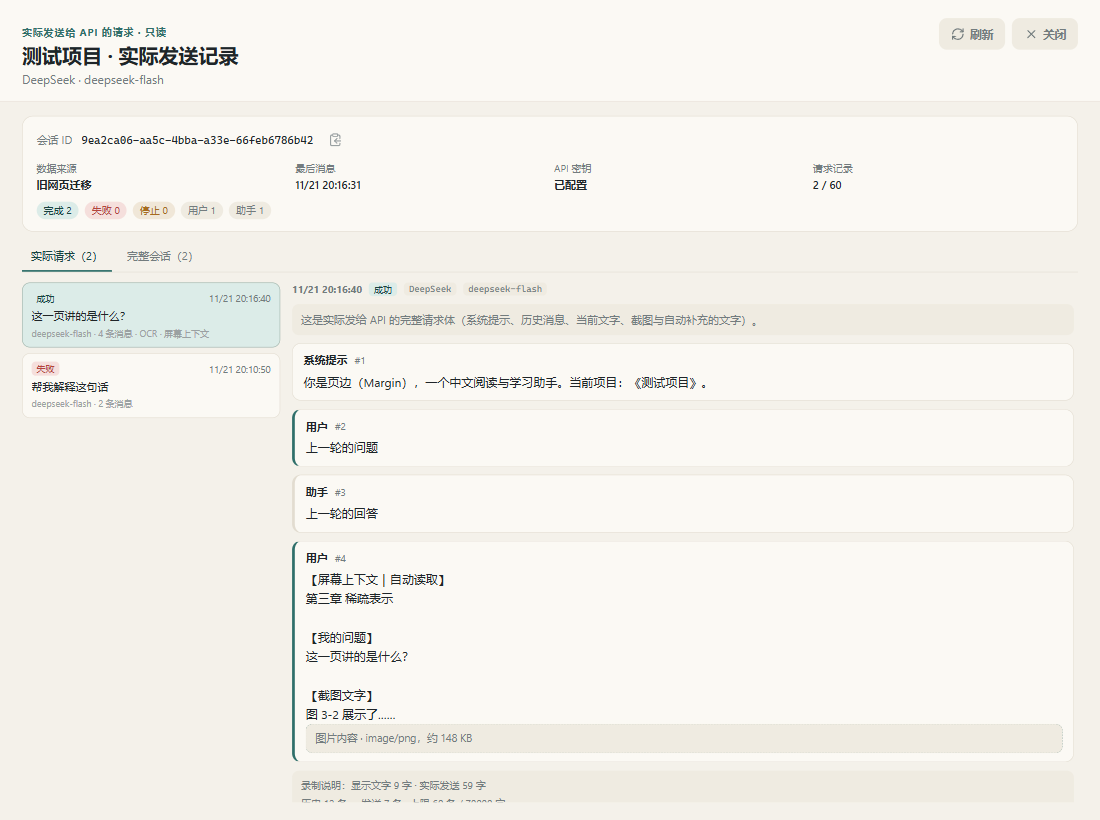
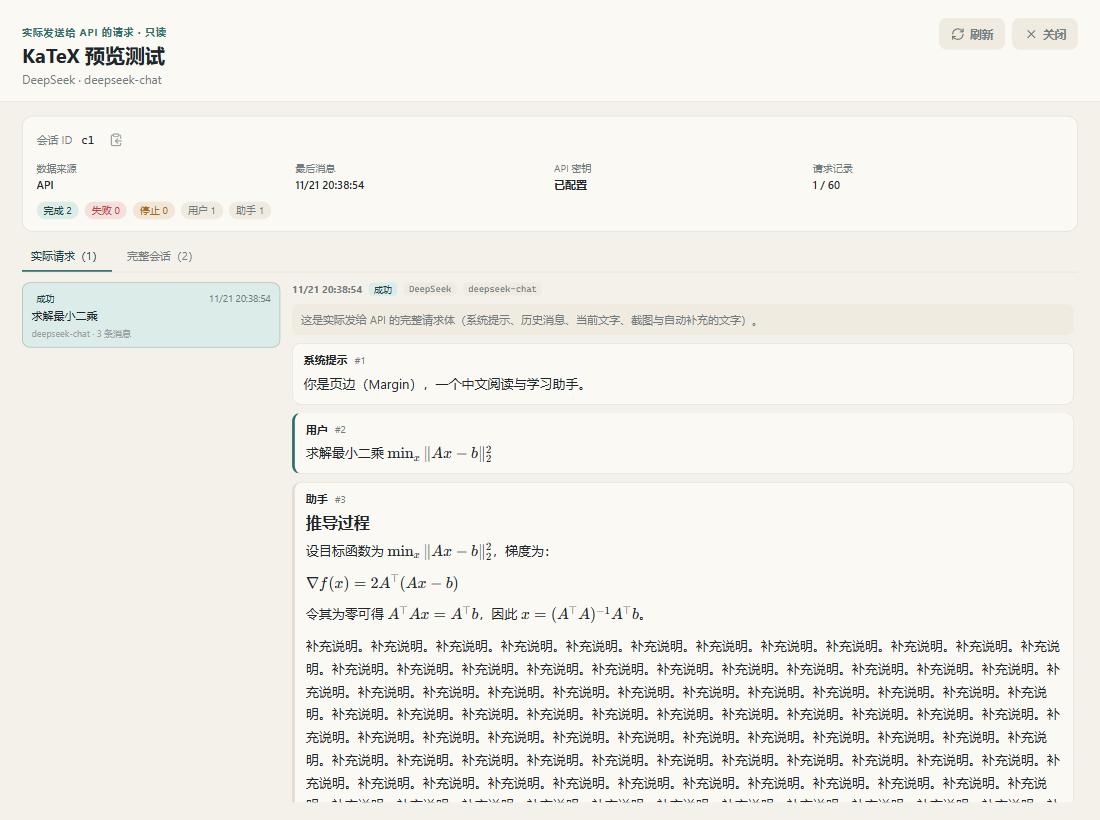
Margin v0.2.5: render inspector with KaTeX, skip OCR when images are supported, scroll to latest

diff --git a/src/renderer/src/InspectorPage.tsx b/src/renderer/src/InspectorPage.tsx
@@ -6,6 +6,7 @@ import type {
   ConversationInspection,
   RequestPart
 } from '../../shared/types'
+import { MarkdownPlain } from './components/Markdown'
 
 type Tab = 'requests' | 'transcript'
 
@@ -43,7 +44,7 @@ function outcomeLabel(outcome: ChatRequestLog['outcome']): string {
 }
 
 function RequestPartView({ part, onImage }: { part: RequestPart; onImage: (url: string) => void }): React.JSX.Element {
-  if (part.type === 'text') return <pre className="inspector-text">{part.text}</pre>
+  if (part.type === 'text') return <MarkdownPlain content={part.text} />
   return (
     <div className="inspector-image">
       <span className="inspector-image-label">图片内容 · {part.description}</span>
@@ -65,6 +66,7 @@ export function InspectorPage({ projectId }: { projectId: string }): React.JSX.E
   const [selectedId, setSelectedId] = useState<string | null>(null)
   const [preview, setPreview] = useState<string | null>(null)
   const detailRef = useRef<HTMLDivElement>(null)
+  const transcriptRef = useRef<HTMLDivElement>(null)
 
   async function load(): Promise<void> {
     setError('')
@@ -110,13 +112,25 @@ export function InspectorPage({ projectId }: { projectId: string }): React.JSX.E
   }, [projectId])
 
   useEffect(() => {
-    detailRef.current?.scrollTo({ top: 0 })
+    const panel = detailRef.current
+    if (!panel) return
+    const frame = requestAnimationFrame(() => {
+      panel.scrollTop = panel.scrollHeight
+    })
+    return () => cancelAnimationFrame(frame)
   }, [selectedId])
 
-  const selected = useMemo(
-    () => data?.logs.find((log) => log.requestId === selectedId) ?? null,
-    [data, selectedId]
-  )
+  useEffect(() => {
+    if (tab !== 'transcript') return
+    const panel = transcriptRef.current
+    if (!panel) return
+    const frame = requestAnimationFrame(() => {
+      panel.scrollTop = panel.scrollHeight
+    })
+    return () => cancelAnimationFrame(frame)
+  }, [tab, data])
+
+  const selected = useMemo(() => data?.logs.find((log) => log.requestId === selectedId) ?? null, [data, selectedId])
 
   const latestTime = useMemo(() => {
     const last = data?.messages[data.messages.length - 1]
@@ -281,7 +295,7 @@ export function InspectorPage({ projectId }: { projectId: string }): React.JSX.E
                             <span>#{index + 1}</span>
                           </div>
                           {message.text !== undefined ? (
-                            <pre className="inspector-text">{message.text}</pre>
+                            <MarkdownPlain content={message.text} />
                           ) : (
                             (message.parts ?? []).map((part, partIndex) => (
                               <RequestPartView
@@ -330,7 +344,7 @@ export function InspectorPage({ projectId }: { projectId: string }): React.JSX.E
                 <div className="inspector-note">
                   本地数据库中的完整会话记录（含失败 / 停止）。请求实际发送内容请查看“实际请求”。
                 </div>
-                <div className="inspector-transcript">
+                <div className="inspector-transcript" ref={transcriptRef}>
                   {data.messages.length === 0 ? (
                     <div className="inspector-empty">这个项目还没有消息。</div>
                   ) : (
@@ -352,7 +366,11 @@ export function InspectorPage({ projectId }: { projectId: string }): React.JSX.E
                             </span>
                           )}
                         </div>
-                        <pre className="inspector-text">{message.content || '（空消息）'}</pre>
+                        {message.content ? (
+                          <MarkdownPlain content={message.content} />
+                        ) : (
+                          <pre className="inspector-text">（空消息）</pre>
+                        )}
                       </article>
                     ))
                   )}

diff --git a/src/main/index.ts b/src/main/index.ts
@@ -435,17 +435,18 @@ function registerIpc(): void {
         if (!imageForRequest && db.getSettings().autoScreenContext) {
           const screen = await capture.captureForContext()
           imageForRequest = screen.imageDataUrl ?? ''
-          const screenText = screen.text.trim()
-          if (screenText) {
-            baseText = `【屏幕上下文｜自动读取】\n${screenText}\n\n【我的问题】\n${text}`
+          if (!provider.supportsVision && screen.text.trim()) {
+            // Text-only model: screen text is all we can send.
+            baseText = `【屏幕上下文｜自动读取】\n${screen.text.trim()}\n\n【我的问题】\n${text}`
           } else if (screen.error) {
             debug(`auto screen context failed: ${screen.error}`)
           }
         }
-        let ocrText = ''
-        if (imageForRequest && !provider.supportsVision) {
-          ocrText = await capture.ocrDataUrl(imageForRequest)
-        }
+        // Only run OCR when the model cannot take the picture itself.
+        const ocrText =
+          imageForRequest && !provider.supportsVision
+            ? await capture.ocrDataUrl(imageForRequest)
+            : ''
         const requestId = newRequestId()
         const { built, log } = buildRequest(
           input.projectId,
@@ -456,7 +457,7 @@ function registerIpc(): void {
           baseText,
           displayText,
           imageForRequest,
-          { applied: baseText !== text, image: imageForRequest },
+          { applied: provider.supportsVision && baseText !== text, image: imageForRequest },
           ocrText,
           { id: provider.id, name: provider.name, supportsVision: provider.supportsVision },
           model

diff --git a/src/renderer/src/components/Markdown.tsx b/src/renderer/src/components/Markdown.tsx
@@ -110,7 +110,13 @@ function CodeBlock({ children }: { children?: ReactNode }): React.JSX.Element {
   )
 }
 
-function MarkdownBase({ content }: { content: string }): React.JSX.Element {
+function MarkdownBase({
+  content,
+  withCodeToolbar = true
+}: {
+  content: string
+  withCodeToolbar?: boolean
+}): React.JSX.Element {
   const rootRef = useRef<HTMLDivElement>(null)
 
   useEffect(() => {
@@ -143,7 +149,8 @@ function MarkdownBase({ content }: { content: string }): React.JSX.Element {
           [rehypeKatex, { throwOnError: false, strict: false, errorColor: 'currentColor' }]
         ]}
         components={{
-          pre: ({ children }) => <CodeBlock>{children}</CodeBlock>,
+          pre: ({ children }) =>
+            withCodeToolbar ? <CodeBlock>{children}</CodeBlock> : <pre>{children}</pre>,
           table: ({ children }) => (
             <div className="table-wrap">
               <table>{children}</table>
@@ -163,3 +170,12 @@ function MarkdownBase({ content }: { content: string }): React.JSX.Element {
 }
 
 export const Markdown = memo(MarkdownBase)
+
+/** Read-only rendering for the request inspector: no code toolbar, KaTeX enabled. */
+export const MarkdownPlain = memo(function MarkdownPlain({
+  content
+}: {
+  content: string
+}): React.JSX.Element {
+  return <MarkdownBase content={content} withCodeToolbar={false} />
+})

diff --git a/src/main/requestLog.ts b/src/main/requestLog.ts
@@ -175,6 +175,7 @@ export function buildRequest(
   let imageOmitted = false
   let ocrApplied = false
   if (image && !provider.supportsVision) {
+    // Text-only model: the picture itself cannot travel, so fall back to OCR text.
     if (ocrText.trim()) {
       apiText = `${apiText}\n\n【截图文字】\n${ocrText.trim()}`
       ocrApplied = true
@@ -182,6 +183,10 @@ export function buildRequest(
       imageOmitted = true
     }
     image = ''
+  } else if (image) {
+    // Vision model: send the real image only. Do not append OCR text as well,
+    // otherwise the model receives the same content twice.
+    ocrApplied = false
   }
   const messages = buildRequestMessages(projectTitle, history, apiText, image, provider.supportsVision)
   const log = {

diff --git a/README.md b/README.md
@@ -1,4 +1,4 @@
-# 页边 Margin 0.2.4
+# 页边 Margin 0.2.5
 
 Windows 阅读伴读侧栏。把 **API 对话**、截图提问、文献笔记、生词本和全局划词解释收进一个贴边工具里，不打断阅读。
 
@@ -15,11 +15,12 @@ Windows 阅读伴读侧栏。把 **API 对话**、截图提问、文献笔记、
   - 模型选择可在标题栏或设置中切换；切换模型不会丢失历史。
 - **实际请求查看窗口（0.2.3 起）**：标题栏的眼睛按钮打开独立只读窗口，展示**真实发送给 API 的请求内容**：
   - 每次请求左侧列出时间、结果（成功 / 失败 / 已停止）、模型和是否含图片；
-  - 右侧显示完整请求体：系统提示、历史消息、当前用户文字、自动附加的屏幕上下文与 OCR 文字、图片部分；
+  - 右侧以 Markdown / KaTeX 渲染完整请求体：系统提示、历史消息、当前用户文字、自动附加的屏幕上下文与 OCR 文字、图片部分；
   - 图片按 `[图片类型，大小]` 标注，并可查看本地存档的原图；
   - 显示记录字数与实际发送字数的差异，说明哪些补充文字被加进了请求；
   - 显示上下文裁剪情况（本地历史条数 → 实际发送条数，以及上限）；
-  - 失败请求会显示错误信息与错误码。
+  - 失败请求会显示错误信息与错误码；
+  - 打开后自动滚动到底部，最新内容优先可见。
   - “完整会话”标签仍可查看本地数据库中的全部消息。
 - **请求记录**：每次 API 调用（包括摘抄）都会在 `userData/request-logs/` 写入一份 JSON，附带图片存档；查看窗口展示最近 60 次。
 - **消息状态**：用户消息在请求开始前记为“发送中”，请求成功后标记完成；失败时如果已经收到内容则保留为完成，否则标为失败。
@@ -93,6 +94,7 @@ npm run dist
 
 - **上下文**：API 请求由 Margin 构造，保留最近 60 条消息，并按用户 / 助手成对裁剪，总长度超过约 7 万字符时从最旧的一对开始丢弃；实际发送内容可在查看窗口逐条核对。
 - **图片**：官方 DeepSeek 文本模型通常不支持图片输入，因此默认 `supportsVision = false`，截图会走本地 OCR，并把 OCR 文字追加到请求正文中；这一补充文字会完整显示在查看窗口里。
+  - 模型支持图片时（勾选或“测试图片支持”通过），只发送原图，不再追加 OCR 文字，避免同一内容重复发送。
   - 在设置里勾选“支持图片输入”会立即保存。
   - 不确定时点“测试图片支持”：应用会向该模型发一张 1×1 图片，能正常返回即判定支持，返回不支持图片的错误即判定不支持，并把结果写回配置。
 - **模型能力差异**：`supportsVision` 目前是服务级开关；同一服务下不同模型能力不一致时，请分别建立 API 配置。
@@ -127,6 +129,13 @@ src/
 ```
 
 ## 更新日志
+
+### 0.2.5
+
+- 实际请求窗口改用 KaTeX 渲染：公式、标题、列表、表格、代码块按 Markdown 正常排版。
+- 模型支持图片时只发送原图，不再额外追加 OCR 文字；OCR 仅用于不支持图片的模型。
+- 实际请求窗口加载后自动滚动到底部，先看到最新内容；“完整会话”标签同样默认到底部。
+- 支持自动屏幕上下文时，视觉模型只发送截图，不再附加屏幕 OCR 文字。
 
 ### 0.2.4
 
